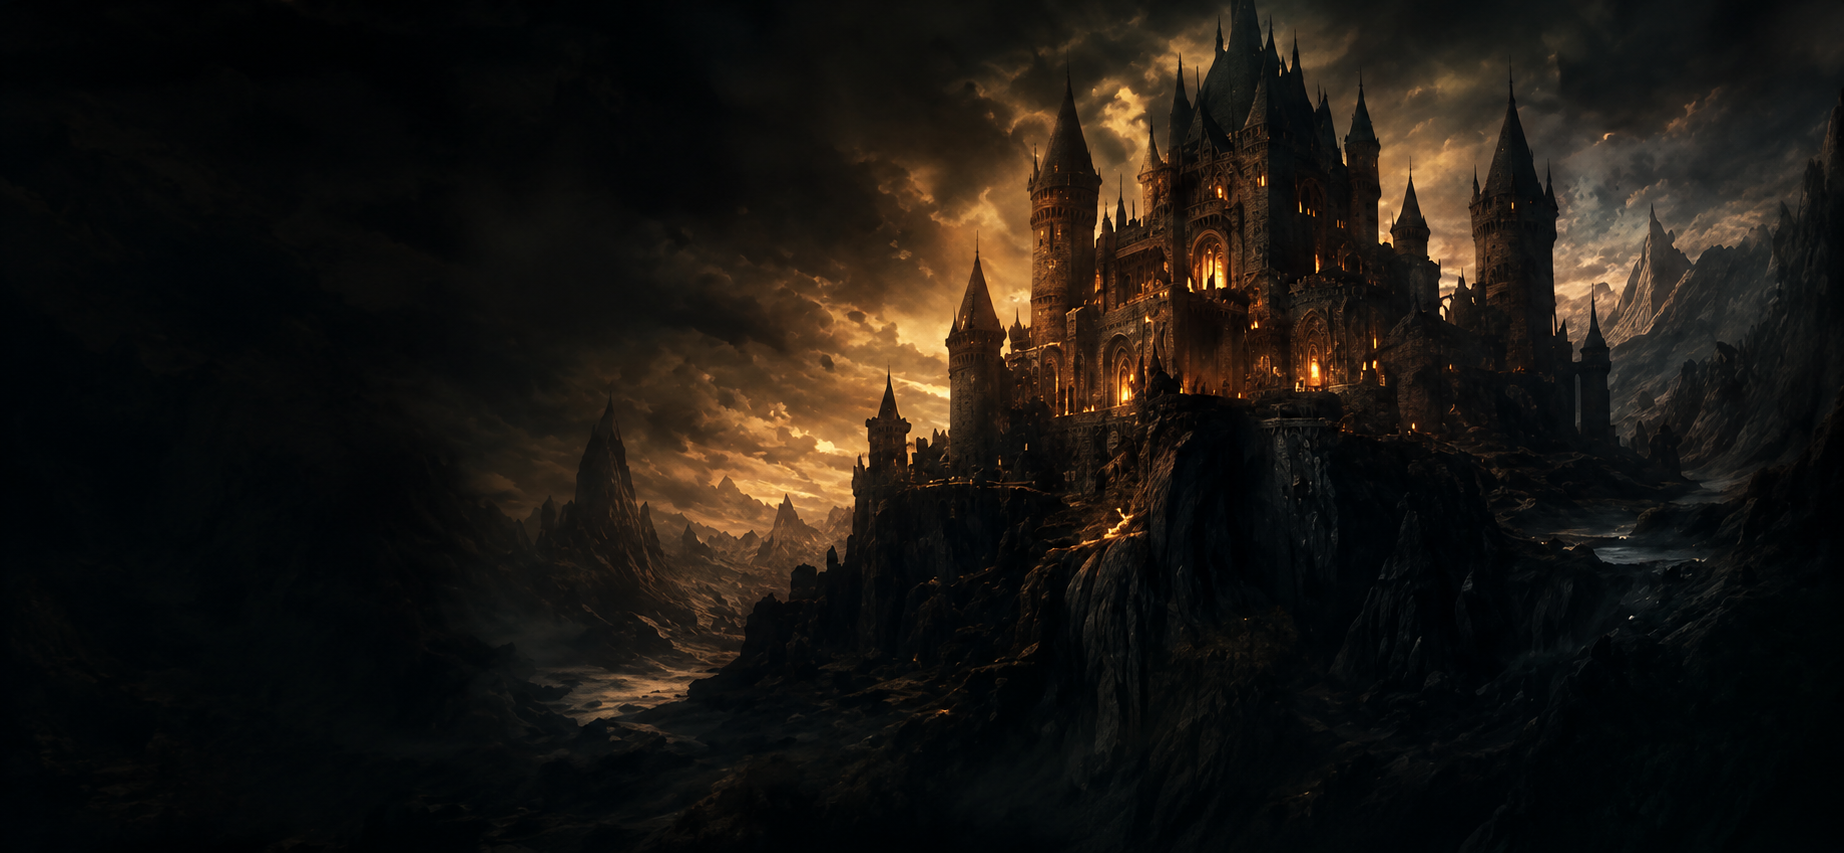
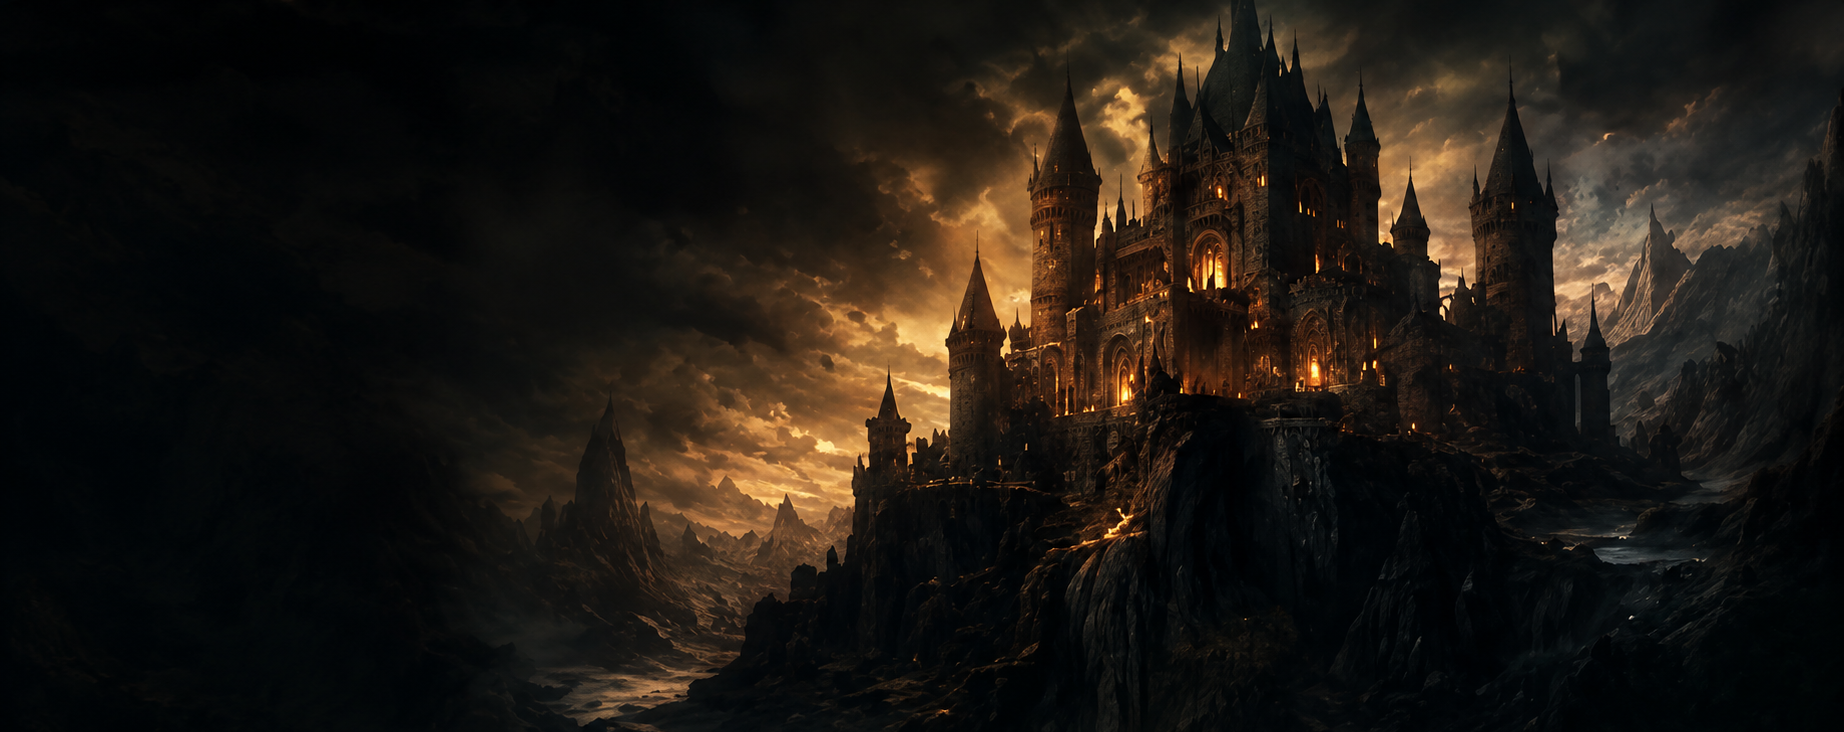
footer-terminado

diff --git a/style.css b/style.css
@@ -51,9 +51,9 @@ body{
     max-width: 1800px;
     height: 400px;
 
-    margin: -90px auto -100px auto;
+    margin: -90px auto 30px auto;
 
-    background: url("src/img/fundo-2.png") center/contain no-repeat; 
+    background: url("src/img/fundo-2.png") center/contain no-repeat;
 
     position: relative;
     z-index: 10;
@@ -93,4 +93,117 @@ body{
     padding-top: 90px;
     padding-left: 20px;
     padding-right: 30px;
+}
+
+#footer{
+    border-top: none;
+    position: relative;
+
+    position: relative;
+    z-index: 1;
+
+    color: white;
+    padding: 40px 0 20px;
+    margin-top: 0;
+
+    background-image:
+        url("src/img/castelo-footer.png");
+
+    background-size: 30%;
+    background-position: 95% 15%;
+    background-repeat: no-repeat;
+}
+
+#footer::before{
+    content: "";
+    position: absolute;
+    top: 0;
+    left: 10%;
+    width: 80%;
+    height: 1px;
+
+    background: linear-gradient(
+        to right,
+        transparent,
+        #CBBD93,
+        transparent
+    );
+}
+
+.footer-container{
+    display: flex;
+    justify-content: flex-start;
+    gap: 80px;
+    flex-wrap: wrap;
+}
+
+.footer-col{
+    display: flex;
+    flex-direction: column;
+    gap: 10px;
+    min-width: 150px;
+    position: relative;
+    padding-right: 40px;
+}
+
+.footer-col:not(:last-child)::after{
+    content: "";
+    position: absolute;
+    right: -25px;
+    top: 10px;
+    width: 1px;
+    height: 80%;
+
+    background: linear-gradient(
+        transparent,
+        #5a5a5a,
+        transparent
+    );
+}
+
+.footer-col h4{
+    color: #CBBD93;
+    font-size: 14px;
+    margin-bottom: 10px;
+    letter-spacing: 2px;
+}
+
+.footer-col a{
+    color: #aaa;
+    text-decoration: none;
+    transition: 0.3s;
+}
+
+.footer-col a:hover{
+    color: white;
+}
+
+.footer-col p{
+    color: #aaa;
+    margin: 0;
+    font-size: 14px;
+}
+
+.footer-logo{
+    width: 180px;
+    height: auto;
+}
+
+.redes{
+    display: flex;
+    gap: 15px;
+    font-size: 24px;
+}
+
+.redes a{
+    color: #c7c7c7;
+}
+
+.footer-bottom{
+    text-align: center;
+    border-top: 1px solid #222;
+    margin-top: 20px;
+    padding: 10px;
+    color: #777;
+    font-size: 13px;
 }

diff --git a/index.html b/index.html
@@ -16,7 +16,7 @@
     <nav class="navbar navbar-expand lg navbar-dark" id="cabecalho" style="background-color: black;">
         <div class="container">
             <a class="navbar-brand" href="index.html">
-                <img src="src/img/logo_caverna_dragao_transparente.png"> alt="logo Caverna do Dragão" id="logo-site" style="width: 180;">
+                <img src="/src/img/logo_caverna_dragao_transparente.png" alt="logo Caverna do Dragão id="logo-site" style="width: 180;"> 
             </a>
 
             <button class="navbar-toggler" type="button" data-bs-toogle="collapse"data-bs-target="#menu">
@@ -96,7 +96,7 @@
         <div class="container footer-container">
     
             <div class="footer-col">
-                <img src="/src/img/castelo-footer.png" alt="Logo" class="castelo-footer">
+                <img src="/src/img/logo_caverna_dragao_transparente.png" alt="Logo" class="footer-logo">
                 <p>Um RPG de mesa inspirado no clássico<br> que marcou gerações. Aventuras épicas <br> esperam por você é seu grupo!</p>
             </div>
     
@@ -114,9 +114,9 @@
             <div class="footer-col">
                 <h4>SIGA-NOS</h4>
                 <div class="redes">
-                    <a href="#"><i class="fa-brands fa-instagram"></i></a>
-                    <a href="#"><i class="fa-brands fa-facebook-f"></i></a>
-                    <a href="#"><i class="fa-brands fa-whatsapp"></i></a>
+                    <a href="#"><i class="bi bi-instagram"></i></a>
+                    <a href="#"><i class="bi bi-facebook"></i></a>
+                    <a href="#"><i class="bi bi-discord"></i></a>
                 </div>
             </div>
     